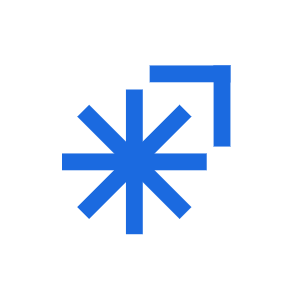
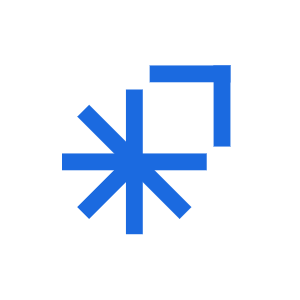
fix(brand): match the asterisk to the official Codevibe mark (#2)
The vector mark in the social kit drew the asterisk with all eight arms.
The official logo has no top-right arm; the corner bracket sits in that
space.

- Drop the top-right diagonal arm in every SVG (the mark is now within
0.5% of icon-512.png, pixel for pixel).
- Re-export all five PNGs: youtube-banner, x-header, linkedin-cover,
avatar, youtube-watermark.
- CHANGELOG.md: Fixed entry.

Changed region(s): [[0.45, 0.33, 0.63, 0.54]]

diff --git a/CHANGELOG.md b/CHANGELOG.md
@@ -4,6 +4,10 @@ All notable changes to this repository are documented here. The format follows [
 
 ## 2026-11-11
 
+### Fixed
+
+- `brand/social/`: the asterisk in the Codevibe mark had an extra top-right arm. It now matches the official logo (the corner bracket sits where that arm was). All five PNGs and SVGs are re-exported.
+
 ### Added
 
 - `brand/`: social media kit in the Codevibe brand system. Banners for YouTube (2560x1440, text inside the 1546x423 safe area), X (1500x500) and LinkedIn (2256x382, the 1128x191 cover at 2x), a square avatar (800x800) and a YouTube watermark (300x300). Each comes as a PNG ready to upload and a self-contained SVG source with the fonts inlined.
